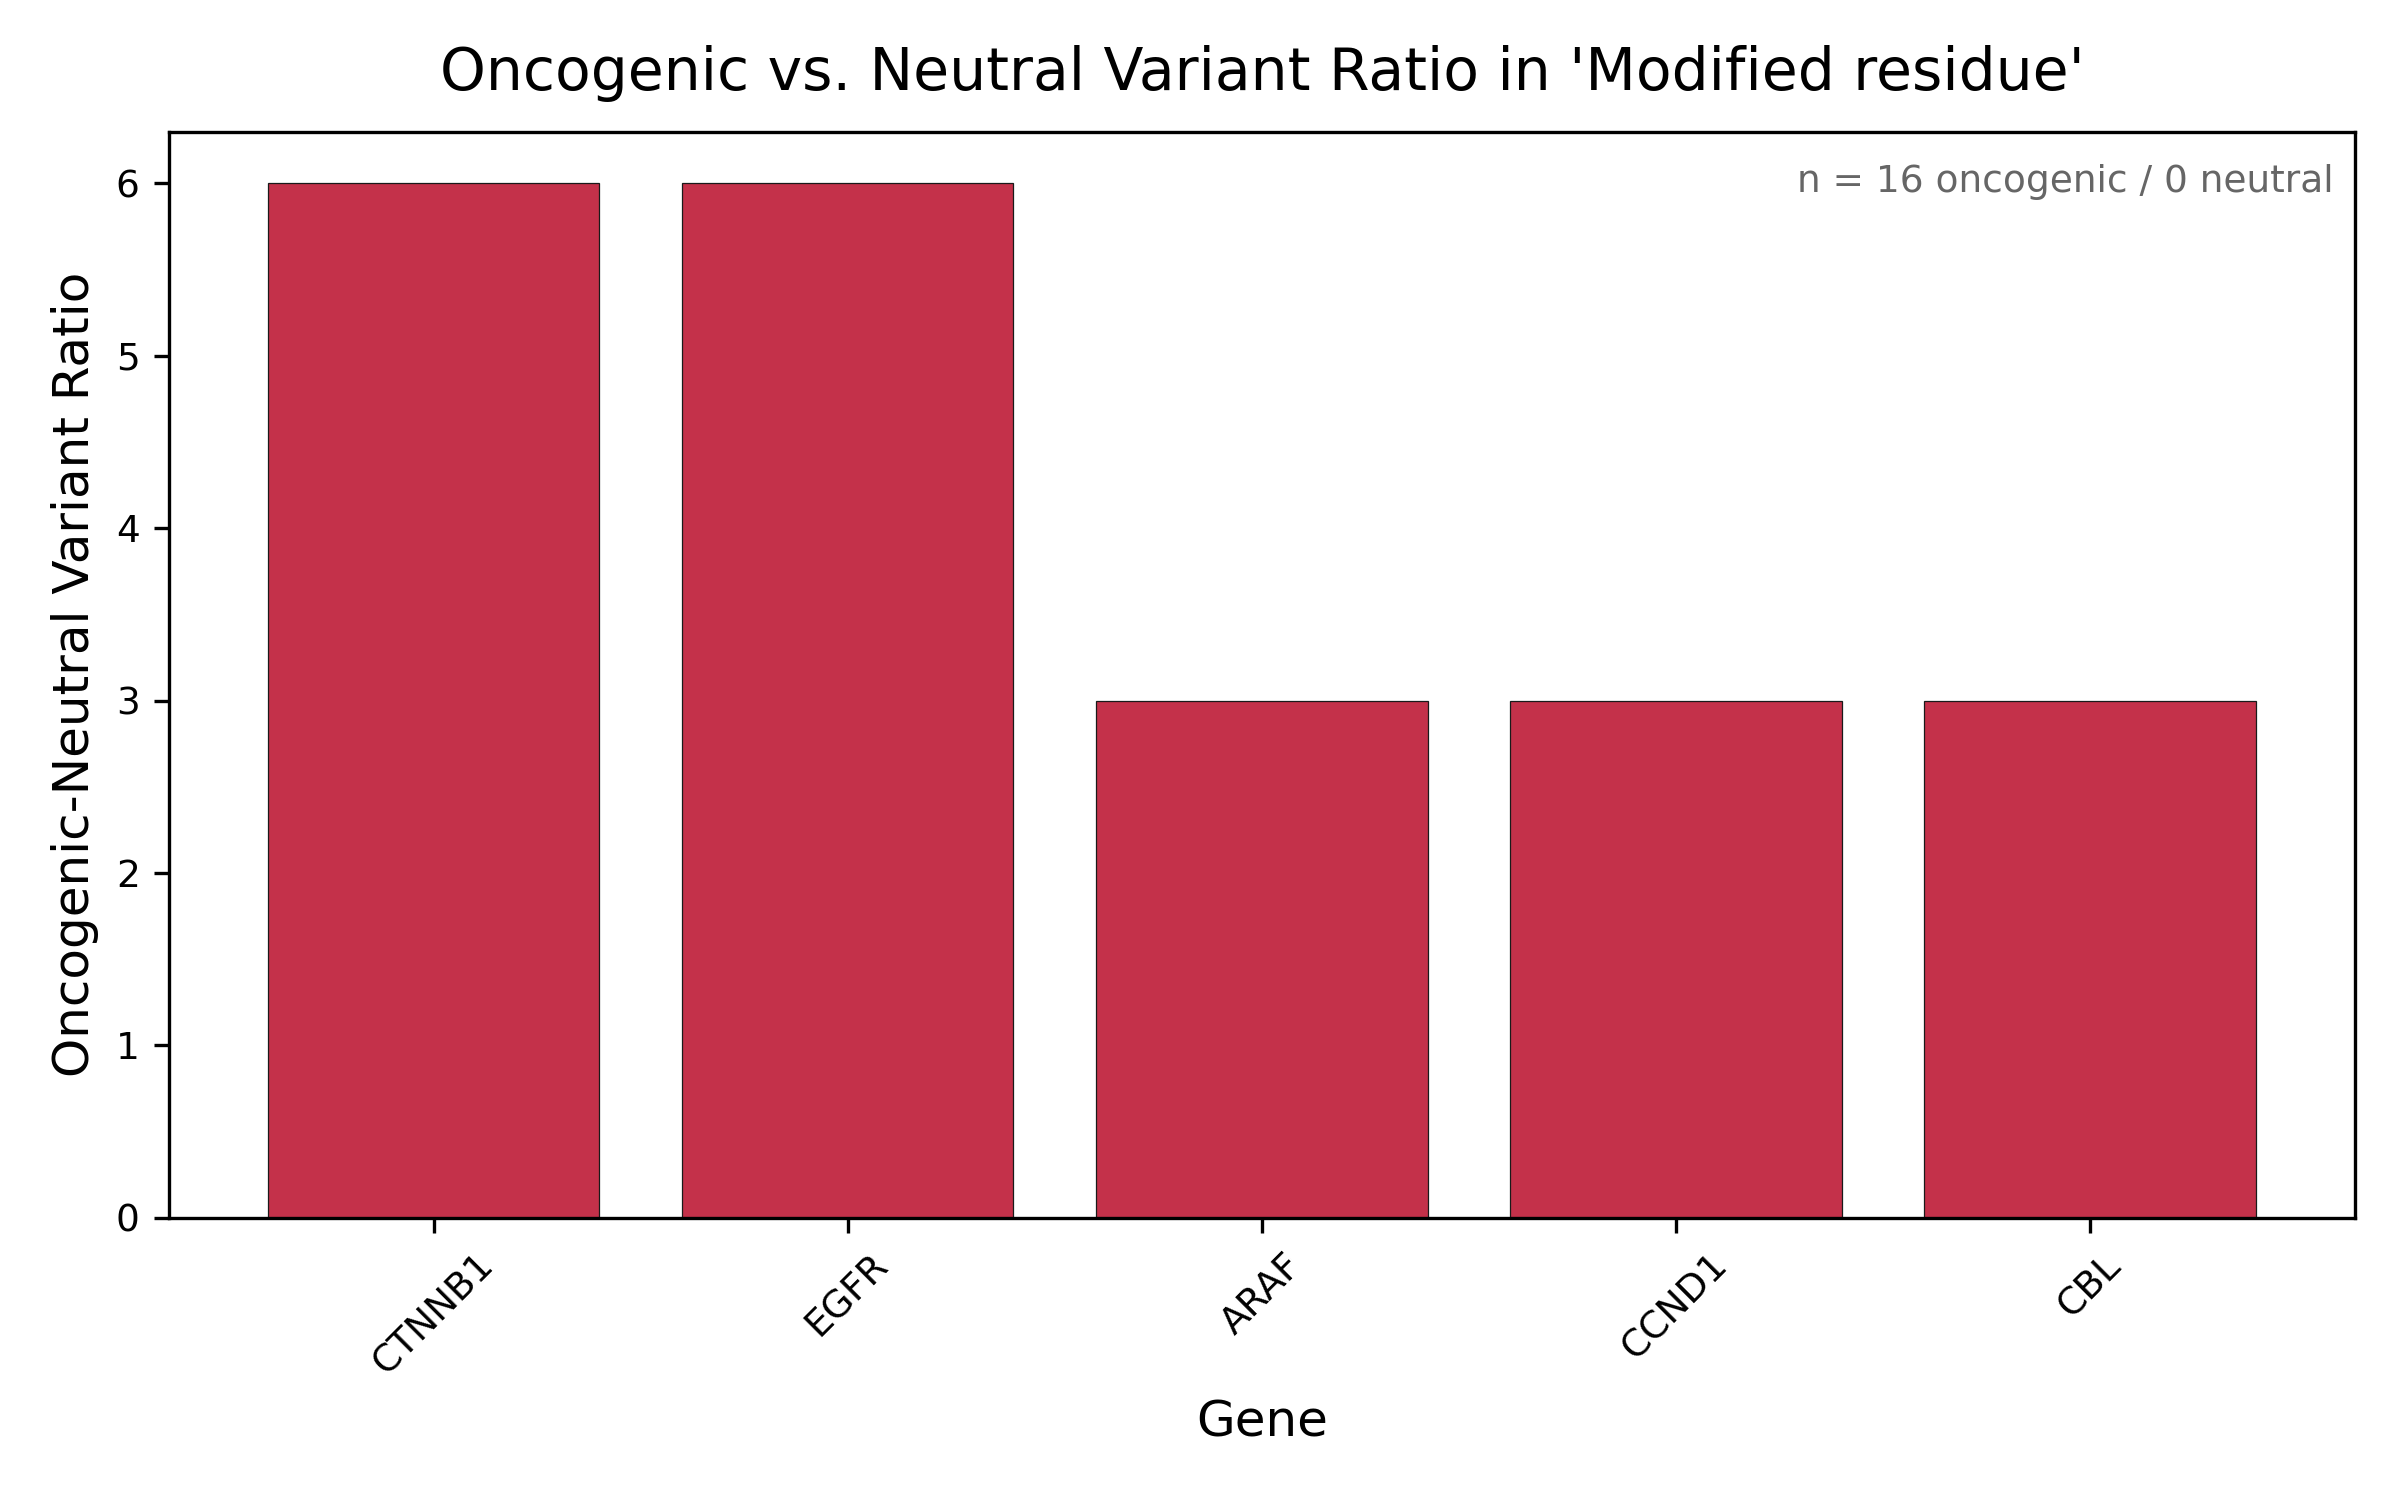
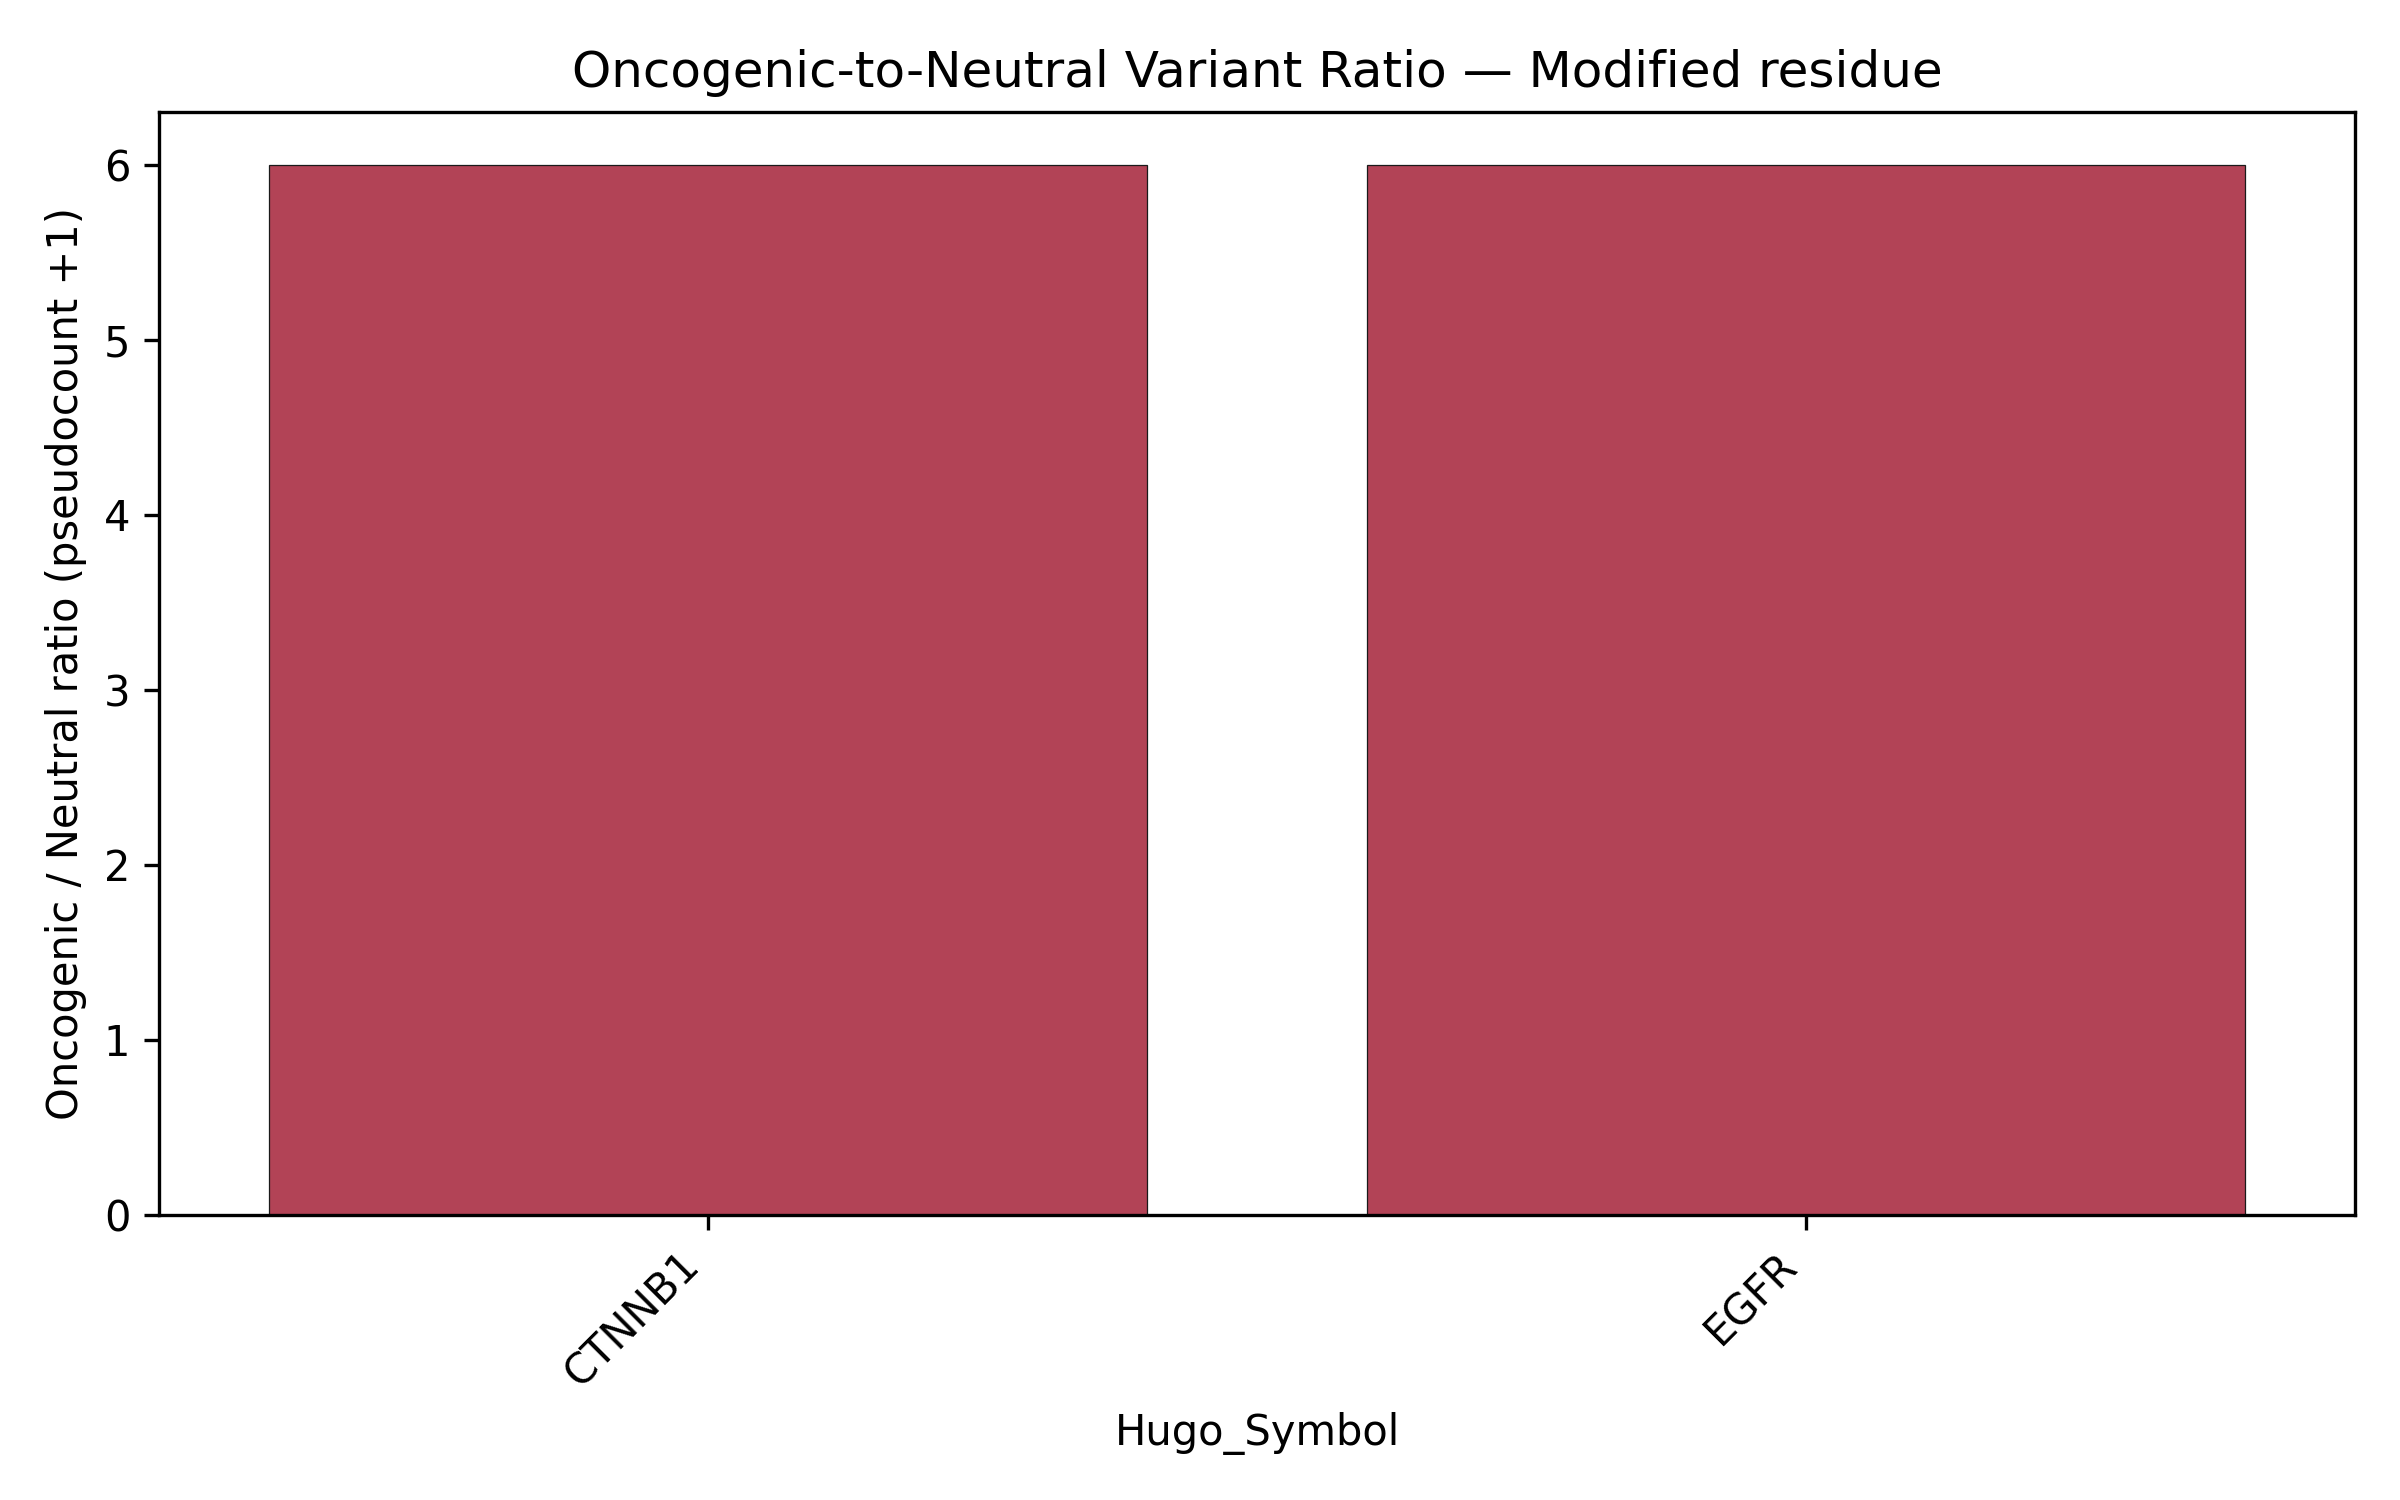
edit functional_sites.py

diff --git a/scripts/EDA/functional_sites.py b/scripts/EDA/functional_sites.py
@@ -10,13 +10,12 @@ variants distribute across different functional protein features.
 
 Major outputs:
 --------------
-1. Counts of Oncogenic vs Likely Neutral variants inside/outside functional sites
-2. Variant counts per functional site type per class
-3. Fractions of variants per functional site type per class 
-4. Top genes by oncogenic variant contribution per functional site
-5. Heatmap of top genes in filtered functional sites  
-6. Comparison of Oncogenic vs Neutral variants in the same genes
-7. Oncogenic-to-neutral ratio plots for each functional site type
+1. Counts and fractions of Oncogenic vs Likely Neutral variants inside/outside functional sites
+2. Plot: Variant counts per functional site type per class
+3. Plot: Fraction of variants per functional site type per class 
+4. Plot: Top genes by oncogenic variant burden per functional site
+5. Plot: Heatmap of top oncogenic genes (variant burden) in filtered functional sites  
+6. Plot: Oncogenic-to-neutral ratios in top oncogenic genes per functional site type
 
 All plots are saved in:
     plots/functionalsites
@@ -227,34 +226,27 @@ print("Plotting complete. Saved as 'plots/functionalsites/fraction_per_site.png'
 # ------------------------------------------------------------
 
 print("-"*50)
-print("Computing gene variant contributions per functional site..")
+print("Computing oncogenic gene contributions per functional site..")
 
 # Oncogenic counts
 oncogenic = expanded[expanded["ONCOGENIC"] == "Oncogenic"].copy()
 
 # Number of oncogenic variants per gene and feature type
-gene_feature_counts = (
+onco_counts = (
     oncogenic.groupby(["Hugo_Symbol", "FEATURE_TYPE"])
     .size()
-    .reset_index(name="Variant_Count")
-    .sort_values("Variant_Count", ascending=False)
+    .reset_index(name="Count"))
+
+feature_totals = onco_counts.groupby("FEATURE_TYPE")["Count"].sum()
+
+# Calculate contribution fraction: 
+# "How much of this sites total oncogenic burden comes from this gene?"
+onco_counts["Contribution_Fraction"] = (
+    onco_counts["Count"] / onco_counts["FEATURE_TYPE"].map(feature_totals)
 )
 
-# Total number of oncogenic variants per feature type 
-feature_totals = (
-    gene_feature_counts.groupby("FEATURE_TYPE")["Variant_Count"]
-    .sum()
-    .rename("Feature_Total")
-)
-
-# Fraction of oncogenic variants contributed by each gene 
-gene_feature_fraction = gene_feature_counts.merge(feature_totals, on="FEATURE_TYPE")
-gene_feature_fraction["Fraction_of_Feature"] = (
-    gene_feature_fraction["Variant_Count"] / gene_feature_fraction["Feature_Total"]
-)
-
-print("Example output gene-feature fraction table:")
-print(gene_feature_fraction.head(5))
+print("Example output oncogenic contributions table:")
+print(onco_counts.head(5))
 
 # ------------------------------------------------------------
 # Plot oncogenic variant contribution by gene
@@ -262,17 +254,17 @@ print(gene_feature_fraction.head(5))
 # ------------------------------------------------------------
 
 print("-"*50)
-print("Plotting gene variant contributions per functional site..")
+print("Plotting oncogenic contribution fractions by gene per functional site..")
 
 # Minimum number of variants for a site to be plotted 
 minimum_var = 20 
 
-top_genes_per_feature = set()  
+top_onco_genes = set()  
 
 # Loop over all feature types
-for ft in gene_feature_fraction["FEATURE_TYPE"].unique():
+for ft in onco_counts["FEATURE_TYPE"].unique():
 
-    total_variants = feature_totals.loc[ft]
+    total_variants = onco_counts[onco_counts["FEATURE_TYPE"] == ft]["Count"].sum()
 
     # Skip features with too few variants
     if total_variants < minimum_var:
@@ -280,24 +272,24 @@ for ft in gene_feature_fraction["FEATURE_TYPE"].unique():
         continue 
 
     subset = (
-        gene_feature_fraction[gene_feature_fraction["FEATURE_TYPE"] == ft]
-        .sort_values("Fraction_of_Feature", ascending=False)
+        onco_counts[onco_counts["FEATURE_TYPE"] == ft]
+        .sort_values("Contribution_Fraction", ascending=False)
         .head(20)
     )
 
-    top_genes_per_feature.update(subset["Hugo_Symbol"].tolist())
+    top_onco_genes.update(subset["Hugo_Symbol"].tolist())
     
     fig, ax = plt.subplots(figsize=(8,5)) 
 
     ax.bar(subset["Hugo_Symbol"],
-           subset["Fraction_of_Feature"], 
+           subset["Contribution_Fraction"], 
            color="#c4314a", 
            edgecolor="0.1",
            linewidth=0.3)
     
-    ax.set_title(f"Oncogenic variant contribution by gene: {ft}", fontsize=14, pad=10)
+    ax.set_title(f"Top genes by oncogenic variant burden — {ft}", fontsize=14, pad=10)
     ax.set_xlabel("Gene", fontsize=12)
-    ax.set_ylabel("Fraction of oncogenic feature variants", fontsize=12)
+    ax.set_ylabel("Fraction of oncogenic variants in site", fontsize=12)
     ax.tick_params(axis="x", rotation=45, labelsize=9)
     ax.tick_params(axis="y", labelsize=9)
 
@@ -318,43 +310,31 @@ print("Plotting complete! Saved in 'plots/functionalsites/'")
 # ------------------------------------------------------------
 
 print("-"*50)
-print("Extracting top contributing genes per functional site type..")
+print("Creating heatmap of top contributing genes per functional site type..")
 
 # filter to functional sites with the most variants 
 filtered_sites = ["Binding site", "Modified residue", "Region", "Topological domain"]
 
 # find the top 5 genes with the highest amount of oncogenic variants per site (fraction) 
-top_genes_per_feature = (
-    gene_feature_fraction[gene_feature_fraction["FEATURE_TYPE"].isin(filtered_sites)]
-    .sort_values(['FEATURE_TYPE', 'Fraction_of_Feature'], ascending=[True,False])
+top_genes = (
+    onco_counts[onco_counts["FEATURE_TYPE"].isin(filtered_sites)]
+    .sort_values(['FEATURE_TYPE', 'Contribution_Fraction'], ascending=[True,False])
     .groupby('FEATURE_TYPE')
     .head(5)
-    .reset_index(drop=True)
 )
 
-print("Example output:")
-print(top_genes_per_feature.head(10),"\n")
-
-print("Plotting top genes per functional site..")
-
 # create matrix for heatmap 
-pivot = top_genes_per_feature.pivot(
+pivot_heatmap = top_genes.pivot(
     index='Hugo_Symbol', 
     columns='FEATURE_TYPE', 
-    values='Fraction_of_Feature'
+    values='Contribution_Fraction'
 ).fillna(0)
 
-plt.figure(figsize=(7,6))
-ax = sns.heatmap(pivot, 
-            cmap='Reds', 
-            annot=True, 
-            fmt='.2f',
-            cbar_kws={"label":"Fraction of oncogenic variants in functional site"},
-            )
-
-ax.set_title("Gene Distribution Across Functional Site Types", fontsize=14, pad=10)
-ax.set_xlabel("Functional Site", fontsize=12)
-ax.set_ylabel("Gene (Hugo Symbol)", fontsize=12)
+plt.figure(figsize=(8,6))
+sns.heatmap(pivot_heatmap, annot=True, cmap="Reds", fmt=".2f")
+plt.title("Gene Contribution per Functional Site Type\n(Fraction of oncogenic variants within each functional site type)", fontsize=14, pad=10)
+plt.xlabel("Functional Site Type", fontsize=12)
+plt.ylabel("Gene", fontsize=12)
 
 plt.tight_layout()
 plt.savefig("plots/functionalsites/top_genes_per_functional_site.png", dpi=300, bbox_inches="tight")
@@ -363,8 +343,7 @@ plt.show()
 print("Plotting complete! Plot saved as 'plots/functionalsites/top_genes_functional_site.png'")
 
 # ------------------------------------------------------------
-# Compare likely neutral variants to oncogenic variants 
-# in top contributing genes (by oncogenic variant count) 
+# Oncogenic-Neutral Variant Ratio in the top contributing genes
 # ------------------------------------------------------------
 
 print("-"*50)
@@ -372,37 +351,20 @@ print("Comparing oncogenic and likely neutral variants in top contributing genes
 
 print("Extracting likely neutral variants..")
 
-likely_neutral = expanded[expanded["ONCOGENIC"] == "Likely Neutral"].copy()
-
-print("Counting likely neutral variants per functional site type..")
-likely_neutral_counts = (
-    likely_neutral.groupby(["Hugo_Symbol", "FEATURE_TYPE"])
+comparison = (
+    expanded.groupby(["Hugo_Symbol", "FEATURE_TYPE", "ONCOGENIC"])
     .size()
-    .reset_index(name="Variant_Count")
+    .unstack(fill_value=0)
 )
+comparison.columns = ["Likely Neutral", "Oncogenic"]
+comparison = comparison.reset_index() 
 
-print("Merging oncogenic and likely neutral count tables..\n")
-comparison = gene_feature_counts.merge(
-    likely_neutral_counts,
-    on=["Hugo_Symbol", "FEATURE_TYPE"],
-    how="outer",
-    suffixes=("_oncogenic", "_likely_neutral")
-).fillna(0)
+# calculate ration with pseudocount (to handle zero values)
+comparison["Ratio"] = (comparison["Oncogenic"] + 1) / (comparison["Likely Neutral"] + 1)
 
+# preview data
 print("Oncogenic and likely neutral variant counts per gene and functional site:")
 print(comparison.head(),"\n") 
-
-print("Filtering to top oncogenic variant contributors..")
-comparison_top = comparison[comparison["Hugo_Symbol"].isin(top_genes_per_feature)]
-
-print("Calculating the oncogenic-neutral ratio for the top contributing genes..")
-comparison_top["ratio_onco_neutral"] = (
-    (comparison_top["Variant_Count_oncogenic"] + 1) /
-    (comparison_top["Variant_Count_likely_neutral"] + 1)
-)
-
-print("Example output oncogenic-neutral ratio:")
-print(comparison_top.head(),"\n")
 
 # ------------------------------------------------------------
 # Plot oncogenic-neutral ratios
@@ -412,50 +374,27 @@ print("-"*50)
 print("Plotting oncogenic-neutral ratio for all functional site types..")
 
 minimum_var = 20
+for ft in filtered_sites: 
+    subset = comparison[comparison["FEATURE_TYPE"] == ft].copy() 
 
-for ft in comparison_top["FEATURE_TYPE"].unique(): 
+    # only look at genes with a high number of oncogenic variants 
+    subset = subset[subset["Oncogenic"] > 2]
+    subset = subset.sort_values("Ratio", ascending=False).head(15) 
 
-    # Functional site totals 
-    n_onco_total = comparison_top[comparison_top["FEATURE_TYPE"] == ft]["Variant_Count_oncogenic"].sum()
-    n_neutral_total = comparison_top[comparison_top["FEATURE_TYPE"] == ft]["Variant_Count_likely_neutral"].sum()
-    total_variants = n_onco_total + n_neutral_total
+    if subset.empty: 
+        continue 
 
-    # Skip features with too few variants
-    if total_variants < minimum_var:
-        print(f"Skipping {ft}. Only {total_variants} variants (< {minimum_var}).")
-        continue
-
-    subset = (
-        comparison_top[comparison_top["FEATURE_TYPE"] == ft]
-        .sort_values("ratio_onco_neutral", ascending=False)
-    )
-
-    # Only keep genes above the pseudocount baseline
-    subset = subset[subset["ratio_onco_neutral"] > 2]
-
-    # Filtered totals for the plot annotation
-    n_onco = subset["Variant_Count_oncogenic"].sum()
-    n_neutral = subset["Variant_Count_likely_neutral"].sum()
-
-    fig, ax = plt.subplots(figsize=(8,5)) 
-    ax.bar(subset["Hugo_Symbol"], 
-            subset["ratio_onco_neutral"], 
-            color="#c4314a",
-            edgecolor="0.1",
-            linewidth=0.3)
-
-    ax.set_title(f"Oncogenic vs. Neutral Variant Ratio in '{ft}'", fontsize=14, pad=10)
-    ax.set_xlabel("Gene", fontsize=12)
-    ax.set_ylabel("Oncogenic-Neutral Variant Ratio", fontsize=12)
-    ax.tick_params(axis="x", rotation=45, labelsize=9)
-    ax.tick_params(axis="y", labelsize=9)
-
-    # Add number of variants in plot 
-    ax.annotate(f"n = {int(n_onco)} oncogenic / {int(n_neutral)} neutral",
-            xy=(0.99, 0.97), xycoords="axes fraction",
-            ha="right", va="top", fontsize=9,
-            color="0.4")
-
+    plt.figure(figsize=(8,5)) 
+    sns.barplot(data=subset,
+                x="Hugo_Symbol",
+                y="Ratio",
+                color="#c4314a",
+                edgecolor="0.1",
+                linewidth=0.3)
+    
+    plt.title(f"Oncogenic-to-Neutral Variant Ratio — {ft}")
+    plt.xticks(rotation=45, ha="right")
+    plt.ylabel("Oncogenic / Neutral ratio (pseudocount +1)")
     plt.tight_layout()
     plt.savefig(f"plots/functionalsites/onco_neutral_ratio_in_{ft}.png", dpi=300)
     plt.show()

diff --git a/README.md b/README.md
@@ -18,22 +18,6 @@ Each script contains further explanations on content and use.
 
 ## Script Descriptions
 
-`gnomAD_freq.py` - gnomAD frequency distributions among different oncogenicity classes and statistical analyses. 
-
-`oncogenicity.py` - Oncogenicity distributions
-
-`top_genes.py` -  Top genes per oncogenicity class 
-
-`variants_in_domain.py` - Variant distributions inside/outside protein domains 
-
-`variants_in_func_sites.py` - Variant distributions inside/outside functional domains  
-
-`variants_in_hotspots.py` - Variant distributions inside/outside cancer hotspots  
-
-`variants_germline_proximity.py` - Distance between somatic cancer variants and known pathogenic germline variants 
-
-`variants_with_maves.py` - Variant counts with MAVE scores and MAVE score distributions  
-
 
 ## Recommended Sources 🛜
 
